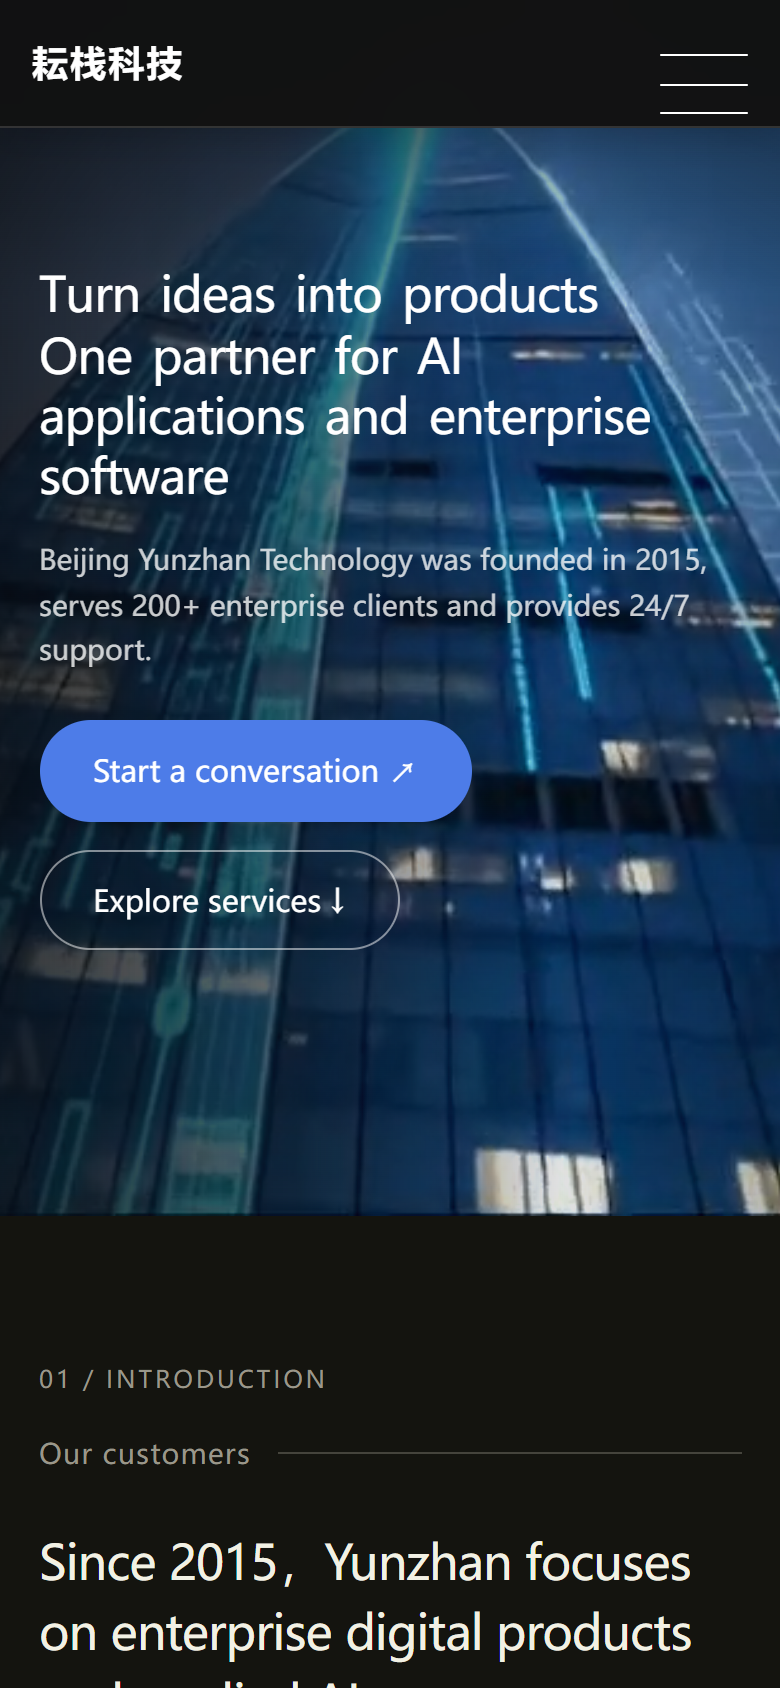
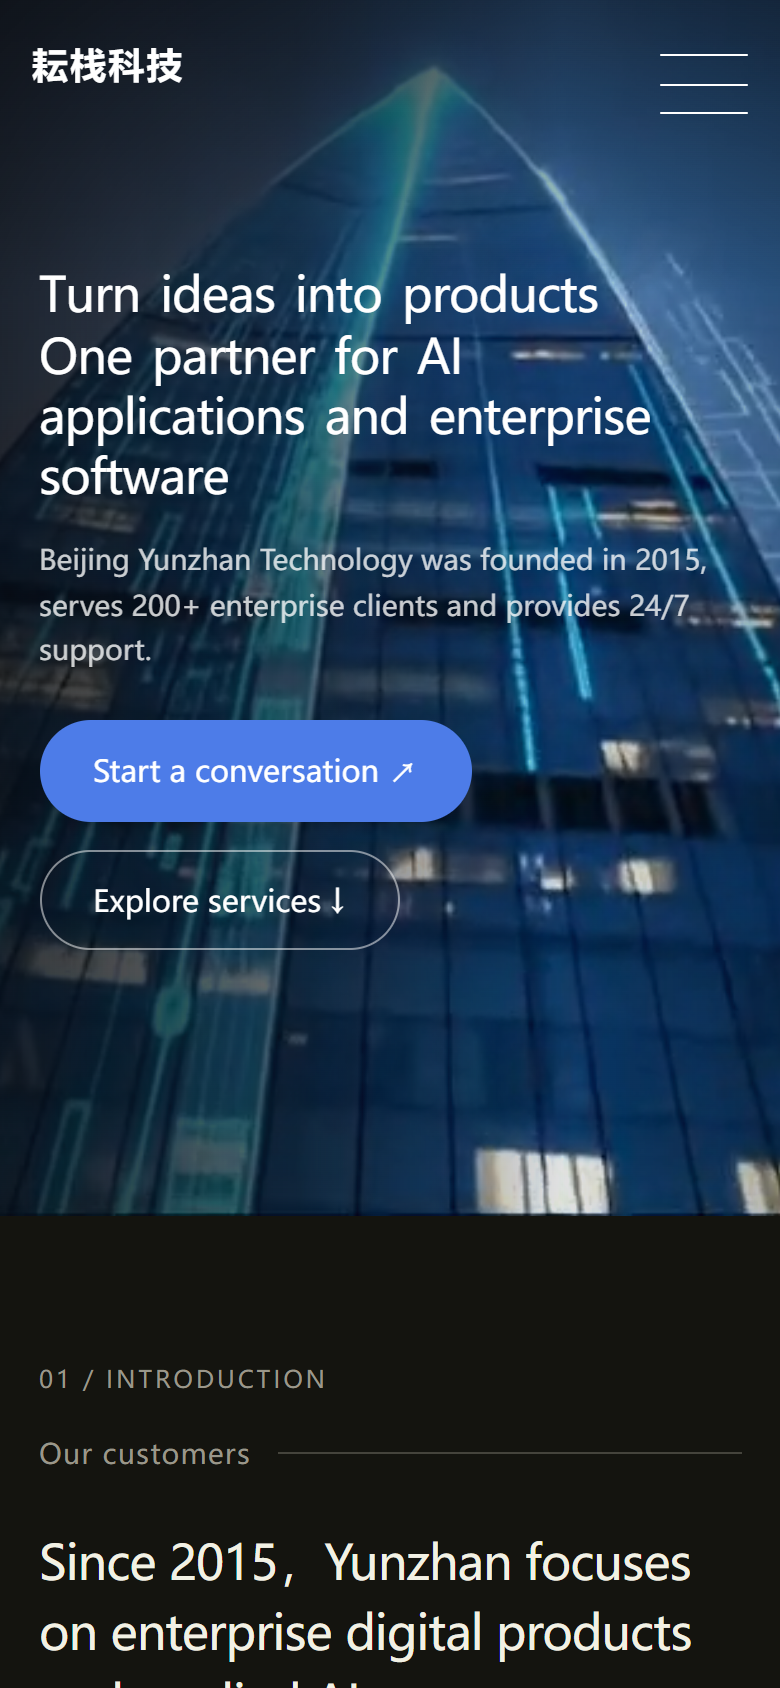
docs(handoff): 本批交接（Header/Footer 实测、给 A 的三项申请、组合截图刷新）
- §9.13 改写为「请用户验收 Header M-04/M-05 + 首页 footer 米色排版」
- §9.14 给 A 的三项申请：摘掉全局 transition:all 里的 transform（附 8 处影响面，
  已机械扫描核实行号）、抽 JS transform guard、加只读门禁脚本；
  两项登记：动效元素别挂 <button>（style.css:282-286 的 !important）、
  footer 在 style.css 里三段叠加 !important 的结构
- §9.15 本批已做 + 逐项实测（含 /en 首页缺陷修复与「改死代码」踩坑记录）
- §9.16 真实命令输出（build / check:routes / eslint 零增量 / 8 张组合截图）
- §9.17 缺口与下次第一步（footer logo 素材、暗色 .on 待裁决、M-03/M-31/M-32）
- compare/ 新增 11 张对照静帧；shots/09-* 8 张组合截图按本批 dist 重出

Changed region(s): [[0.0308, 0.0, 1.0, 0.0924]]

diff --git a/docs/frontend-rebuild/handoffs/B.md b/docs/frontend-rebuild/handoffs/B.md
@@ -569,10 +569,182 @@ frontend/dist/assets/index-299f074c.js     # 80.88 kB，gsap 确实进了产物
 
 ### 9.13 未完成项与下次第一步（本轮更新）
 
-- **下次第一步：用户验收第 1 条 —— Header M-04 / M-05**（导航栏透明底 + 下滚丝滑收起 / 上滚丝滑出现）。文件 `frontend/src/layout/components/Header.vue`（A 的；用户已授权 B 临时接管，见 §9.4）。
-- 仍未做：M-03 入场、M-31 footer 圆形按钮 hover 发光、M-32 `.fixed_side`（项目现有 `.studio-float` 属 A，且没有 `scrollTop >= 300 加 .on`）。
-- **待用户裁决的三处 M-29 保真度**（B 未擅自改，因为都已被用户验收过）：
-  1. 蓝盘尺寸：本项目 114px（用户验收时点名）vs 参考站蓝底 134px（`.fixed_cursor2 .cursor`）+ `cir.png` 环 114px。
-  2. 「探索更多」文案颜色:本项目白色 vs 参考站 `#FF8000`（`style.css:1204-1207`）。
-  3. `cir` 环：本项目用 CSS `dashed` 圆环 vs 参考站用 `cir.png` 图片（需下载素材并登记 hash）。
-- **待 A**：§9.10 的两条全局样式问题（`transition: all` 含 `transform`；`button:hover` 的 `transform !important`）；以及 `lenis` 目前已物化但**未接入**——若要启用全局平滑滚动，需与 A 一起定 M-04/M-05 与 M-32 的口径后再动。
+- **下次第一步：请用户验收本批两件**（入口 `/` 与 `/en`）：
+  1. 需求 1 —— Header 透明顶 + M-04 `.on` / M-05 wheel 收放（§9.15.1）；
+  2. 需求「footer 黑底突兀」—— 首页 footer 米色排版（§9.15.2）。
+  两者在同一批提交里；看 `compare/HDR-MINE-*.jpg`、`compare/FTR-MINE-*.jpg`、`shots/09-*.png`。
+- 仍未做：M-03 页头入场、M-31 footer 圆形按钮 hover 发光、M-32 `.fixed_side`。
+- 用户本轮已裁决（B 未改）：M-29 的三处保真度差异**全部接受** —— 114px 蓝盘、白色「探索更多」文案、CSS `dashed` 环。
+- **待 A**：见 §9.14（三项申请 + 两项登记）。素材/结构缺口：见 §9.17。
+
+### 9.14 给 A 的变更申请（三项 + 两项登记；用户已认可该方案）
+
+> 渠道：IM 先发「占用声明 + 三项申请」，A 回一句「收到」即可；正式版即本节。
+
+**申请 1（必须）：把 `transform` 从全局 `transition: all` 里摘掉**
+
+- 位置：`frontend/src/style.css:938-946`
+
+```css
+a,
+button,
+.el-button,
+[role="button"],
+.clickable {
+  cursor: pointer;
+  transition: all 0.3s cubic-bezier(0.4, 0, 0.2, 1);
+  position: relative;
+}
+```
+
+- 理由与逐帧实测见 §9.10：gsap 每帧写 `transform`，CSS 过渡对同一属性每帧重新计时 → 位移被拖成「先停滞、后追赶」（实测：动画写完 0.3s 之后屏幕上的位移才走完）。
+- 改法：这行展开成显式属性、**不含 `transform`**（`color / background-color / border-color / box-shadow / opacity / filter`）；确实需要过渡 `transform` 的元素各自补 `transition: transform .3s …`。
+- **影响面**（机械扫描口径：`:hover` 里写 `transform:`、该规则自身没有 `transition:`、选择器命中 `a / button / .el-button / [role=button] / .clickable`，共 **8** 处）：
+
+| # | 文件:行 | 选择器 |
+| --- | --- | --- |
+| 1 | `style.css:280` | `.el-button--primary:hover, button:hover:not(:disabled), .el-button:hover:not(.is-disabled)` |
+| 2 | `style.css:957` | `button:hover:not(:disabled), .el-button:hover:not(.is-disabled), .el-button--primary:hover` |
+| 3 | `style.css:977` | `.el-button--primary:hover, button.primary:hover` |
+| 4 | `style.css:1023` | `button:disabled:hover, .el-button.is-disabled:hover` |
+| 5 | `style.css:2078` | `:is(.ai-development,.app-development,.web-development) .cta-section .el-button:hover` |
+| 6 | `layout/index.vue:90` | `.studio-float button:hover` |
+| 7 | `views/AiDevelopment/index.vue:968` | `.cta-section :deep(.el-button:hover)` |
+| 8 | `views/ServiceLanding.vue:59` | `.service-cta button:hover` |
+
+  第 1–5 条（`.el-button`）可能还有 Element Plus 自带的 transition 兜着，请 A 逐条确认；B 没动它们，只做了扫描。
+- B 已做的局部兜底：`useMagnetic` 在绑定期间把元素 inline `transition-property` 置 `none`，解绑时还原（§9.10）。
+
+**申请 2（建议）：抽一个 JS transform guard**
+
+- 约定：凡「逐帧写 `transform`」的元素（gsap / rAF / 惯性）统一过同一个 guard —— 例如 `useJsTransformGuard(el, on)`：进入时把 inline `transition-property` 置 `none`，退出时还原。
+- 收益：后续 C/D 加动效不必各自再踩一遍 §9.10；B 现在这段实现可以直接从 `useMagnetic` 里搬出来复用。
+- 归属：`frontend/src/composables/` 是 A 的目录，请 A 落地；B 到时不改其它页。
+
+**申请 3（建议）：加一条只读门禁**
+
+- 照 `frontend/scripts/check-routes.mjs` 的先例加脚本（例：`npm.cmd run check:motion`），只读扫描：
+  1. 新增 `transition: all`；
+  2. `:hover` 改 `transform`、选择器主体命中 `a / button / .el-button / [role=button] / .clickable`、且该规则自身没有 `transition` 的地方（即上表 8 处的规则）。
+- 现状没有这条门禁，同类问题只能人肉发现（§9.10 是靠逐帧比对才挖出来的）。
+
+**登记 1：动效元素不要挂 `<button>`**
+
+- `style.css:282-286`：`button:hover:not(:disabled){ transform: translateY(-2px) !important }` 会压掉 JS 写的 inline `transform`。当前 `.hover_button` 挂在 `<a class="pill hover_button">` 上所以没事（`views/Home/index.vue`）；要挂 `<button>` 必须先处理这条 `!important`。
+- （更正：§9.10 里写的 `style.css:947-957` 是旧行号，规则实际在 `282-286`。）
+
+**登记 2：footer 的样式是三段叠加的**
+
+- 内页 footer 的**有效**声明分布在 `style.css` 的 `1703-1736`（原浅色板）与 `2130-2131`（深色覆盖），`615` 段那一组早已被压死。
+- B 本轮已把两处消费点改成 `var(--footer-*)`（默认值 = 改前生效值），删掉 `615` 段的 5 条死规则，调色板收敛成一张表（`style.css:621-650`）。
+- 但「同一组件两套叠加 `!important`」的结构还在（正是 AGENTS「不得继续叠加全局 `!important` 掩盖结构错误」说的成因）。建议 A 后续合并成一处；B 本轮不动，一动就要重测所有内页。
+
+### 9.15 本批已做（Header M-04/M-05 + 首页 Footer 米色）
+
+- 本批代码提交：`f726c50` `feat(header,footer): 首页页头 M-04/M-05 + 首页 footer 米色排版，并修掉 /en 首页不生效`（3 files, 173+/82−）；本文件与截图随下一条 `docs` 提交。
+
+#### 9.15.1 Header：透明顶 + M-04 `.on` + M-05 wheel 收放
+
+文件：`frontend/src/layout/components/Header.vue`（A 的；用户授权 B 临时接管，见 §9.4）。
+
+- 模板：`ref="headerRef"`、`:class="{ 'header-fixed': !isHome && isFixed, 'header-home': isHome, on: isOn, hide: isHidden }"`。
+- `isOn` 阈值照 SPEC：`window.scrollY > document.documentElement.clientHeight - headerHeight()/2`；`isHidden` 由 `wheel` 驱动（`deltaY>0` 收起、`<0` 恢复），监听 passive。
+- 样式：`.header.header-home` 双类前缀（为压过 `style.css` 里那几条 `.header { … !important }`）—— 基线 `background: transparent !important`、`transition: all .6s ease !important`；`.on` → `#F2F1E4` + logo `invert(1)` + 文字转黑；`.hide` → `transform: translateY(-100%) !important`。参考站：`sources/style.css:213-228 / 586-607 / 624-626`。
+- **本轮修掉一个缺陷**：`isHome` 原来只判 `route.path === '/'`，而英文站首页是独立路由 `/en`（router: `Home` / `HomeEn`）→ `/en` 拿不到 `.header-home`，M-04/M-05 在英文站根本没生效。改为 `'/' || '/en'`（口径同 `Home/index.vue:250` 的 locale 判断）。
+
+实测（`bx-hdr.js`、`bx-enhdr.js`；preview `3001` = 本批 dist）：
+
+| 场景 | 结果 |
+| --- | --- |
+| `/` y=0 | `header header-home`、`position: fixed`、`bg: rgba(0,0,0,0)`、`transition: 0.6s ease`、nav 白、headerH 76、阈值 862.5 |
+| `/` y=900（过阈） | `header header-home on`、`bg: rgb(242,241,228)` = **#F2F1E4**、nav `rgb(0,0,0)` |
+| `/` y=400（回退） | `.on` 移除、bg 回透明 |
+| `/` wheel 向下 | `header header-home on hide`、`transform: matrix(1,0,0,1,0,-76)` |
+| `/` wheel 向上 | `.hide` 移除、`transform: none` |
+| `/en` y=0 / y=900 / wheel↓ / wheel↑ | 与 `/` 逐项一致（修缺陷后） |
+| `/ai-development`、`/en/about` | `header`、`header header-fixed on`、`rgba(17,17,17,0.98)`（内页零变化） |
+| `pageerror` / console error | 0 条 |
+
+#### 9.15.2 Footer：首页米色排版
+
+文件：`frontend/src/layout/components/Footer.vue`、`frontend/src/style.css`。
+
+- 用户方案 A：**内页保持深色现状，只有首页切参考站的米色排版**（用户裁决「1.可以 2.标语 3.授权」；锚点用标语）。
+- `Footer.vue`：根元素挂 `:class="{ 'footer-home': isHome }"`（`isHome` 同 Header，含 `/en`）；`.footer-home` 的硬编码色改 `var(--footer-icon / --footer-link-hover / --footer-line, 原值)`；新增首页排版块（≥981px）与 logo `multiply`。
+- `style.css`：调色板收敛成一张表（`621-650`，默认值 = 内页**生效**值，逐字一致）；`1703-1736` / `2130-2131` 两处消费点改 `var()`。
+- 参考站依据：`sources/style.css:905-915`（`background:#F2F1E4`、`.wrap { margin:146px auto 111px; max-width:90% }`）、`931-938`（正文 18/32、tel 19/45）、`977-988`（链接 14/28）。
+- 正文/链接**沿用本项目组件原生的深蓝灰**（`#1e2f48 / #40546a / #4a5d72` 本来就是给浅底设计的，在米底上对比度 6.8:1），不照抄参考站的 `#7B7B7B`（在 `#F2F1E4` 上只有 3.7:1）。这是**有意差异**，理由 = 可读性。
+- **主题感知**：米色只在浅色模式生效（选择器 `html:not([data-theme='dark'])`）。暗色模式下首页其它区块是深底，接米色 footer 会造出新的硬接缝，所以暗色回落全站深色收尾（前后对比：`compare/FTR-MINE-home-1440-dark-ctx.jpg`）。
+- logo：`logo-new.png` 是无 alpha 的**白底方图**（1254×1254，且内嵌了公司名与微信号），在内页深底上一直显示为一个白方块；首页米底上用 `mix-blend-mode: multiply` 让白底融进底色（只作用于首页浅色）。
+- 桌面排版块：`gap 56 / brand max-width 330 / logo 56 / 标题 30px / 副标 9px(.3em) / 正文 15px(1.9) / 栏目标题 13px(.14em) / 链接 15px(1.6) / bottom margin-top 74 / entries 13px / legal 12px`。
+
+实测（`bx-ftr5.js`；preview `3001`）：
+
+| 场景 | footer class | bg | padding-top | h3 | 栏目链接 | legal |
+| --- | --- | --- | --- | --- | --- | --- |
+| `/` 1440 亮 | `footer corporate-footer footer-home` | **rgb(242,241,228)** | **146px** | rgb(30,47,72) `#1e2f48` | rgb(64,84,106) `#40546a` | rgb(90,109,130) `#5a6d82` |
+| `/` 1440 暗 | 同上 | rgb(17,17,17) | 68px | rgb(255,255,255) | 同 | 同 |
+| `/` 390 亮 | 同上 | rgb(242,241,228) | 34px（移动断点未被污染） | `#1e2f48` | 同 | 同 |
+| `/` 390 暗 | 同上 | rgb(17,17,17) | 34px | 白 | 同 | 同 |
+| `/ai-development` 1440 亮 | `footer corporate-footer` | rgb(17,17,17) | 68px | rgb(255,255,255) | `#40546a` | `#5a6d82` |
+
+- **内页零变化**：`/ai-development` 与 `/cases` 的 9 项测量（bg / padding-top / h3 字号+行高+颜色 / 栏目链接 / brand 段落 / entries / legal / bottom border 色 / 整块高度）在改动前后**逐位相同**。
+- **踩坑（值得 A 知道）**：B 第一版把 `style.css:615-625` 的 footer 硬编码色换成变量，看起来「默认值逐字未变」，实测却**毫无效果** —— 内页真正生效的是后面 `1703` / `2130` 两块（`body` 前缀 + 更晚 + `!important`），只改前面的等于改死代码。**教训：改这种叠加 `!important` 的全局样式，必须先实测「哪条规则在赢」，不能只看 diff。**
+
+### 9.16 本批验证（真实输出）
+
+```text
+$ npm.cmd run build            # frontend/
+dist/assets/index-f9412415.js            1,139.35 kB │ gzip: 364.39 kB
+(!) Some chunks are larger than 500 kBs after minification. …
+✓ built in 13.87s
+=== EXIT: 0 ===
+
+$ npm.cmd run check:routes     # frontend/
+结果：PASS 34 / FAIL 0 / PENDING 2      （tail：contact 未实现 = B/T05，存量）
+=== EXIT: 0 ===
+
+$ npx.cmd eslint src/layout/components/Footer.vue src/layout/components/Header.vue --ext .vue
+✖ 80 problems (0 errors, 80 warnings)
+=== EXIT: 0 ===
+```
+
+- eslint 与基线对齐：`Footer.vue` 56 vs 基线 55、`Header.vue` 25 vs 基线 25 → 合计 80 vs 基线 80（**零增量**）。基线用 `git show HEAD:<file>` 拷到 `frontend/` 下临时文件实测后已删除；告警全部是 `vue/max-attributes-per-line` / `attributes-order` / `singleline-html-element-content-newline` / `html-self-closing` 这类格式族。
+- 8 张组合截图（`shots/09-*.png`，preview 3001、本批 dist）：`bx-combo.js` 复跑，**每张 console error 0 条**，且 `[src]/[href]/[style]` 扫描 **external URLs: none**（无参考站热链）。
+
+| 组合 | header | footer | bg | padding-top |
+| --- | --- | --- | --- | --- |
+| 1440 zh 亮 | `header header-home` | `…footer-home` | rgb(242,241,228) | 146px |
+| 1440 zh 暗 | `header header-home` | `…footer-home` | rgb(17,17,17) | 68px |
+| 1440 en 亮 | `header header-home` | `…footer-home` | rgb(242,241,228) | 146px |
+| 1440 en 暗 | `header header-home` | `…footer-home` | rgb(17,17,17) | 68px |
+| 390 zh 亮 | `header header-home` | `…footer-home` | rgb(242,241,228) | 34px |
+| 390 zh 暗 | `header header-home` | `…footer-home` | rgb(17,17,17) | 34px |
+| 390 en 亮 | `header header-home` | `…footer-home` | rgb(242,241,228) | 34px |
+| 390 en 暗 | `header header-home` | `…footer-home` | rgb(17,17,17) | 34px |
+
+### 9.17 缺口、未完成项与下次第一步
+
+**A. 素材缺口（需要用户/A 决定，B 没有自行造素材）**
+
+1. **footer logo**：`frontend/public/logo-new.png` 是 1254×1254 的**白底方图、无 alpha**，还内嵌了「北京耘栈科技有限公司」与「微信号 yunzhankk」两行字。放到 46/56px 的槽里，图形只占约 1/4、两行字糊成一团；内页深底上白方块尤其突兀。B 只做了 `mix-blend-mode: multiply` 兜住首页浅色底。**建议要一张透明底（或横向 lockup）的 footer 专用 logo**，落盘后 B 替换并登记 hash。
+2. 首页占位动图：仍按用户「先占位」的裁决，来源与 SHA256 见 `evidence/reference-assets/`（§9.7）。
+
+**B. 待裁决（B 未擅自改）**
+
+1. **暗色模式下 Header `.on` 仍是米色**（`#F2F1E4`，与参考站 `.header.on` 一致）。首页暗色模式其它区块是深底，这个米色条会比较跳；要不要在 `html[data-theme='dark']` 下改成深色底 + 白字，请用户裁决（改法 1 行，但会偏离参考站字面值）。
+
+**C. 仍未做（已授权，下一批）**
+
+1. M-03 页头入场；M-31 footer 圆形按钮 hover 发光（参考站 `sources/style.css:819-903`，截帧 `frames/magnetic/footer-hover-*.png`）；M-32 `.fixed_side`。
+2. `lenis` 已物化但**未接入** —— 若要全局平滑滚动，需与 A 一起定 M-04/M-05 与 M-32 的口径后再动。
+
+**D. 存量问题（不是本批引入）**
+
+1. `/cases` 直连返回 500（`AxiosError`，后端未起），页面有失败态；本批探针里只在 `/cases` 命中过这条 console error。
+2. `npm.cmd run lint` 带 `--fix`，不是只读检查（AGENTS 已记）。
+
+**E. 下次第一步**
+
+1. 等用户验收 §9.13 的两件（Header M-04/M-05、首页 footer 米色排版）；同时把 §9.14 的三项申请发给 A。
+2. 验收通过后：接 §9.14 的门禁脚本（若 A 已落地），然后继续 M-03 / M-31 / M-32；用户已批准的其余页面（公司/联系/法律，含 T05 `contact`）排在其后。
